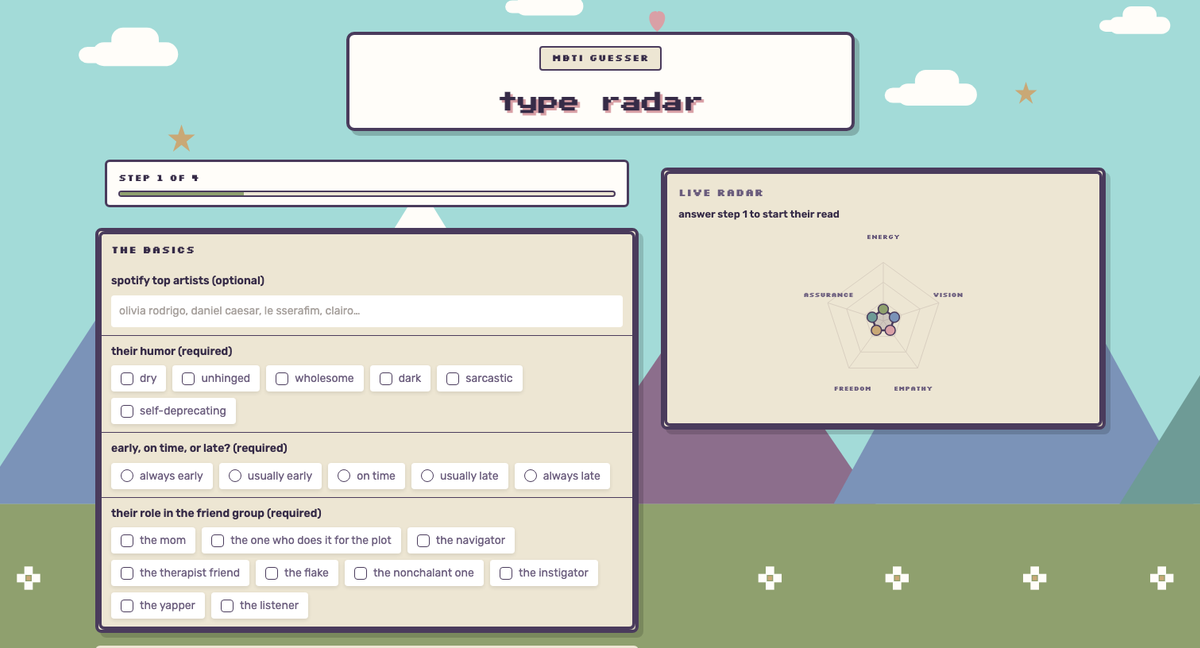
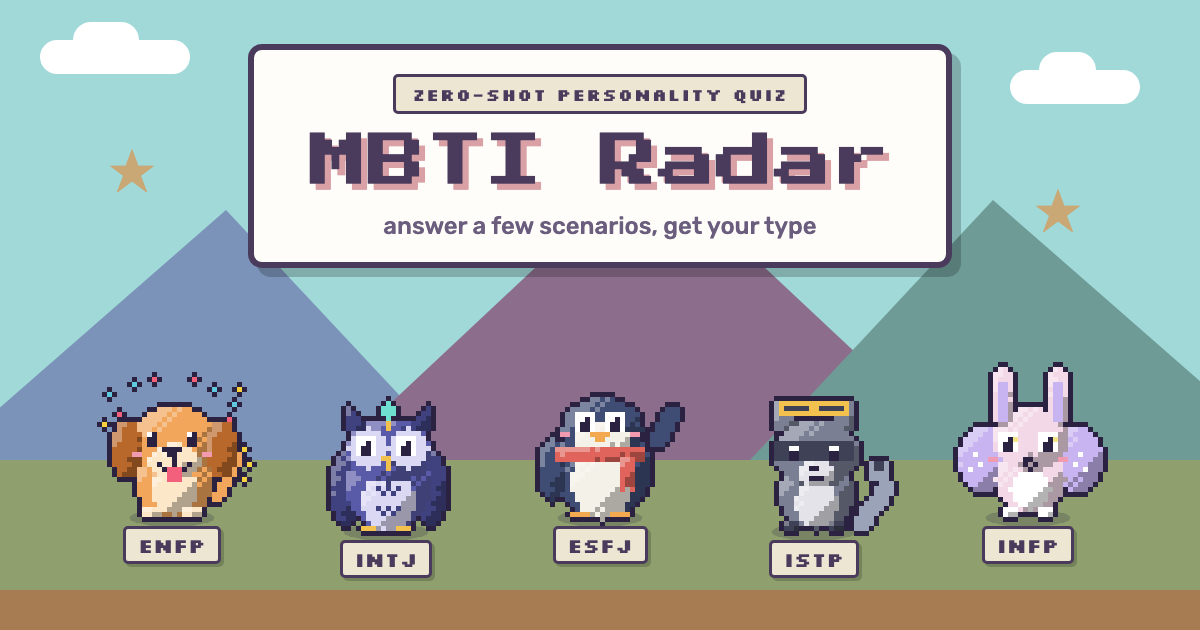
new link preview thumbnail

diff --git a/README.md b/README.md
@@ -8,7 +8,7 @@ sdk_version: 6.18.0
 app_file: ui.py
 pinned: false
 thumbnail: >-
-  https://raw.githubusercontent.com/chengjcrystal/mbti-guesser/a8a61e101babca77a31c4e90be799c4652af88c1/thumbnail.png
+  https://raw.githubusercontent.com/chengjcrystal/mbti-guesser/main/thumbnail.png
 ---
 
 # MBTI Radar
